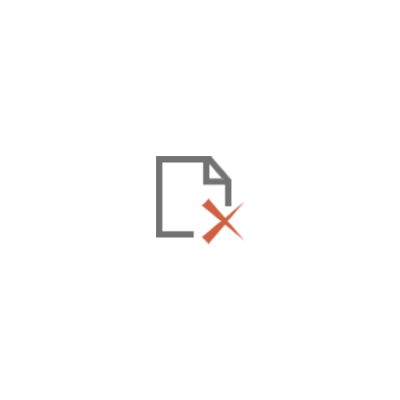
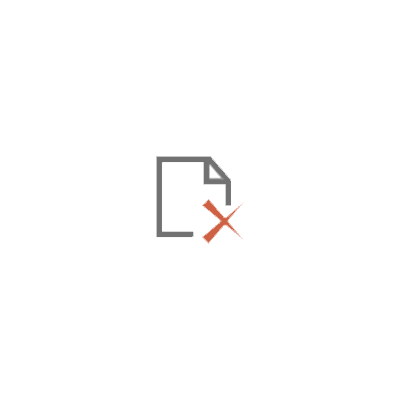
优化封面图片加载失败的效果

Changed region(s): [[0.39, 0.39, 0.6, 0.63], [0.54, 0.42, 0.57, 0.48]]

diff --git a/src/renderer/component/Pagin/index.tsx b/src/renderer/component/Pagin/index.tsx
@@ -1,6 +1,7 @@
 // @ts-ignore
 import React, {useCallback, useEffect, useState} from 'react';
 import {Container, Dot, DotContainer, Img, Page, PrevNext, Text, WhiteCover} from './styled-components'
+import * as Images from '../../public/Images'
 
 interface ImagePaginationProps {
     pages: {
@@ -79,7 +80,20 @@ const Index = (
                                 onClick={(event: any) => event && onItemClick(img.id)}
                             >
                                 <WhiteCover/>
-                                <Img src={decodeURI(img.src)} style={{width: imgSide, height: imgSide}}/>
+                                <Img
+                                    src={decodeURI(img.src)}
+                                    style={{
+                                        width: imgSide,
+                                        height: imgSide,
+                                        borderRadius: 5,
+                                        borderWidth: 10,
+                                        borderColor: 'black'
+                                    }}
+                                    onError={(e: { target: { onerror: null; src: string; }; }) => {
+                                        e.target.onerror = null
+                                        e.target.src = Images.ICON_EMPTY
+                                    }}
+                                />
                             </Page>
                         ))
                     }

diff --git a/src/renderer/public/Images.js b/src/renderer/public/Images.js
@@ -8,7 +8,6 @@ import icon_liella from '../../../assets/image/menu_liella.jpg'
 import icon_loading from '../../../assets/image/loading.gif'
 import icon_setting from '../../../assets/image/icon_setting.png'
 import icon_empty from '../../../assets/image/icon_empty.png'
-import icon_logo from '../../../assets/icons/128x128.png'
 
 export const ICON_HEAD = icon_head
 export const ICON_MENU = icon_menu
@@ -20,4 +19,3 @@ export const MENU_NIJI = icon_niji
 export const MENU_LIELLA = icon_liella
 export const LOADING = icon_loading
 export const ICON_EMPTY = icon_empty
-export const ICON_LOGO = icon_logo

diff --git a/src/renderer/component/Pagin/styled-components/index.tsx b/src/renderer/component/Pagin/styled-components/index.tsx
@@ -85,7 +85,6 @@ export const WhiteCover = styled.div`
     left: -18%;
     width: 150%;
     height: 150%;
-    background-image: linear-gradient(hsla(0, 0%, 100%, .2), hsla(0, 0%, 100%, .25) 48%, hsla(0, 0%, 100%, 0) 52%);
     transform: rotate(24deg);
     transition: transform .2s ease, opacity .2s ease;
     -webkit-animation: ${myWhiteTransform} .2s;
